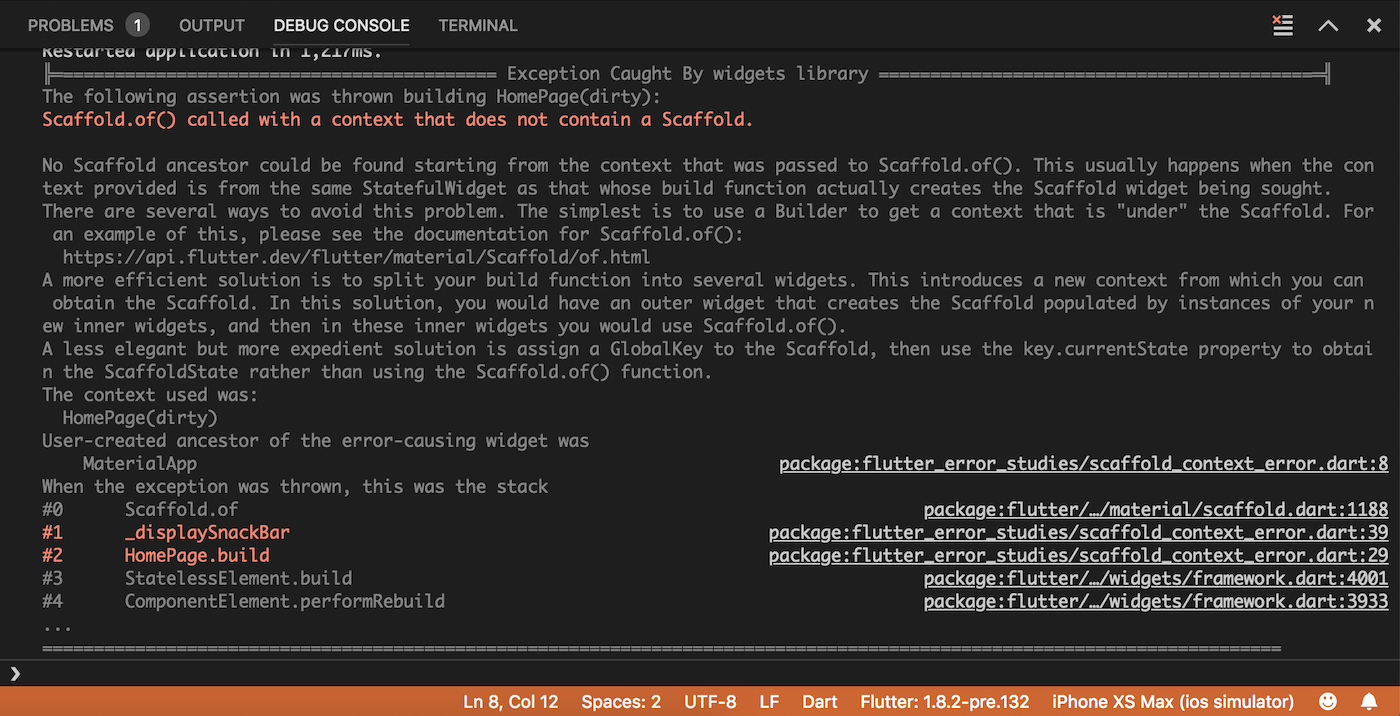
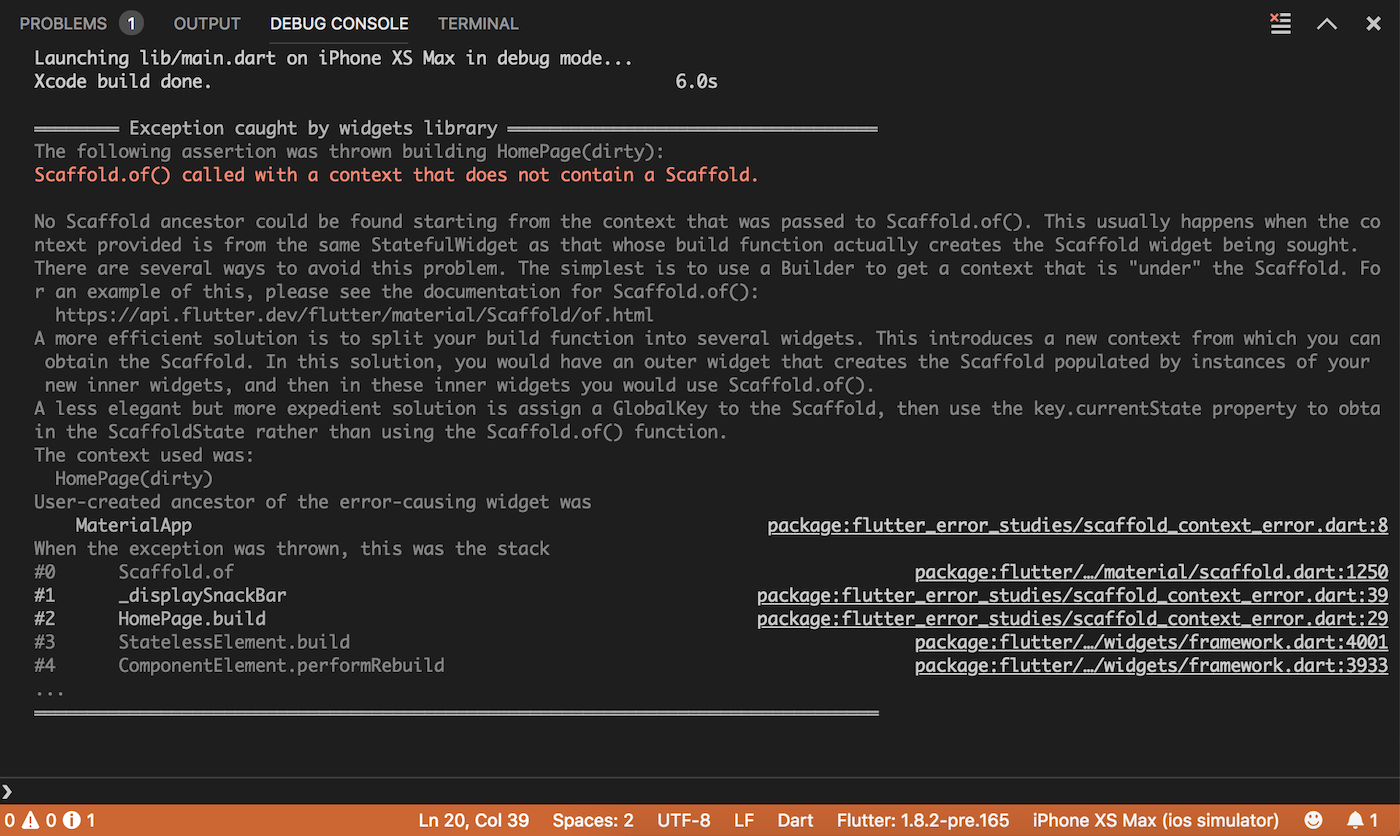
Tweak structured errors release notes

diff --git a/_releases/v3.3.md b/_releases/v3.3.md
@@ -21,7 +21,7 @@ Note: The context menu will only appear if you first left-click the node to sele
 
 The list updates as devices are connected/disconnected and will be filtered to show only devices that are valid for projects in the current workspace.
 
-<img src="/images/release_notes/v3.3/device_picker.png" width="700" height="200" />
+<img src="/images/release_notes/v3.3/device_picker.png" width="700" height="418" />
 
 - [#1867](https://github.com/Dart-Code/Dart-Code/issues/1867): When a device disconnects, a new device will only be auto-selected if it is valid for the current workspace.
 - [#1863](https://github.com/Dart-Code/Dart-Code/issues/1863): Device selector will update automatically if devices/emulators are connected/disconnected/launched while it is visible.
@@ -31,9 +31,11 @@ The list updates as devices are connected/disconnected and will be filtered to s
 
 ## Preview: Improved Flutter Errors
 
-[#1870](https://github.com/Dart-Code/Dart-Code/issues/1870): Enabling the setting `"dart.previewFlutterStructuredErrors": true` changes the way Flutter passes error information to VS Code. In this initial preview, error messages shown in the debug console should show more information and links, though this functionality may be updated in coming releases.
+[#1870](https://github.com/Dart-Code/Dart-Code/issues/1870): Enabling the setting `dart.previewFlutterStructuredErrors` activates a new experimental feature for showing more concise error messages from Flutter. A summary of the error will be shown in red, followed by detailed information on how to resolve the issue (where available). Stack traces will show frames from your own code brighter than those from framework or SDK code.
 
 <img src="/images/release_notes/v3.3/structured_errors.png" width="700" height="358" />
+
+Please try this feature out and send feedback via GitHub.
 
 ## Other Flutter Changes
 
